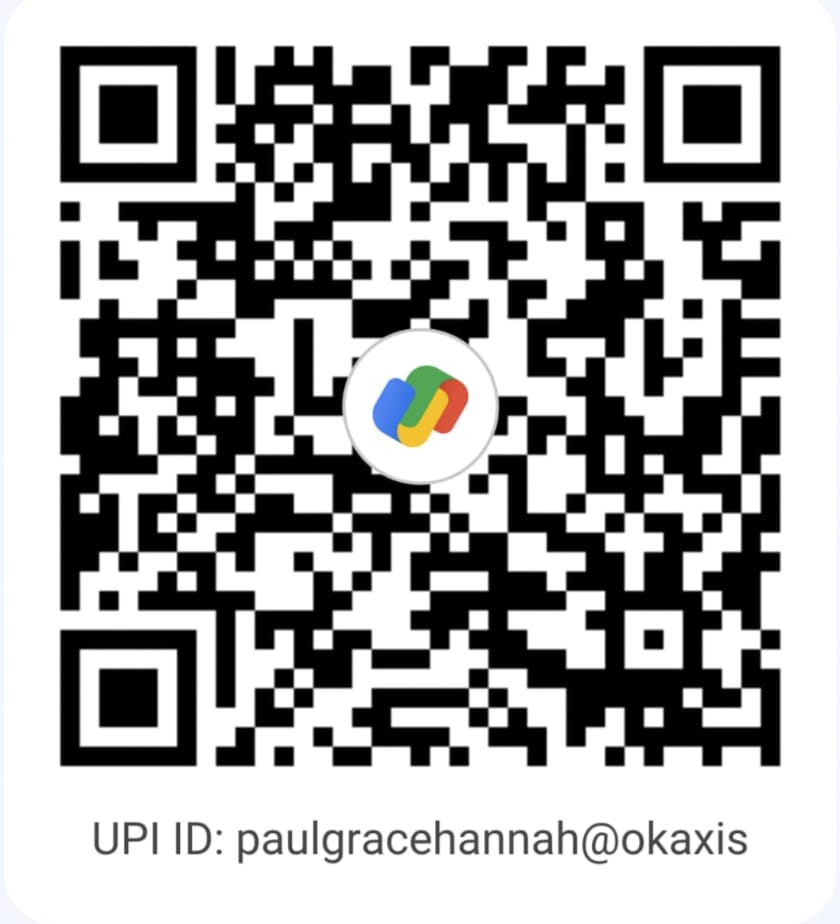
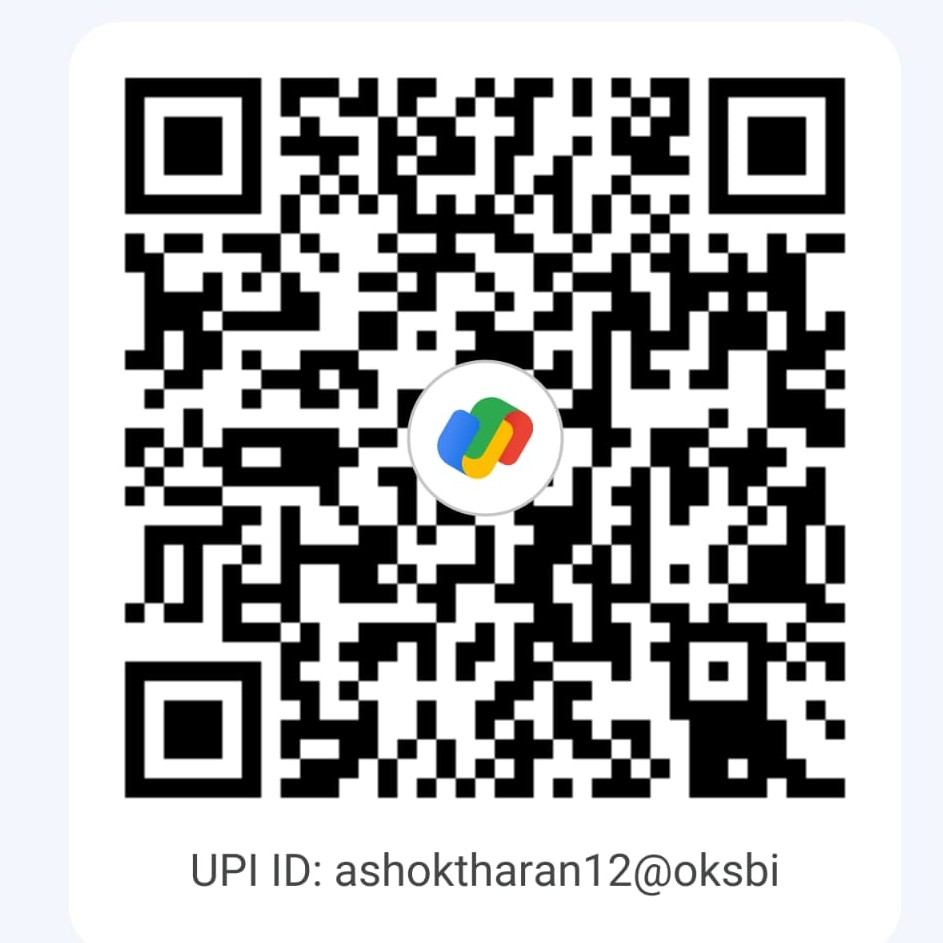
final changes

diff --git a/backend/services/emailService.js b/backend/services/emailService.js
@@ -66,7 +66,7 @@ const tableValue = `padding:5px 0;color:#e2e8f0;font-size:13px;font-weight:600;`
 
 // ─── WhatsApp CTA Block (shared) ─────────────────────────────────────────────
 // Replace WHATSAPP_LINK with your actual WhatsApp group/channel invite URL
-const WHATSAPP_LINK = 'https://chat.whatsapp.com/YOUR_INVITE_CODE_HERE';
+const WHATSAPP_LINK = 'https://chat.whatsapp.com/I7iRsI9Pma89sPPVOzYC8n?mode=gi_t';
 
 const whatsappBlock = `
   <div style="text-align:center;margin:24px 0;">
@@ -155,7 +155,7 @@ function buildHeader(headerGradient, subtextColor, badgeHtml = '') {
     <div style="background:${headerGradient};padding:40px 32px;text-align:center;">
       <!-- College name — NEW addition above workshop title -->
       <p style="margin:0 0 2px;color:rgba(255,255,255,0.55);font-size:10px;letter-spacing:2px;text-transform:uppercase;font-weight:500;">Chennai Institute of Technology</p>
-      <p style="margin:0 0 10px;color:${subtextColor};font-size:11px;letter-spacing:3px;font-weight:600;">IOT CENTERS OF EXCELLENCE</p>
+      <p style="margin:0 0 10px;color:${subtextColor};font-size:11px;letter-spacing:3px;font-weight:600;">IOT CENTER OF EXCELLENCE</p>
       <h1 style="margin:0 0 6px;color:#fff;font-size:26px;font-weight:900;letter-spacing:2px;">STM32 MASTERING</h1>
       <h2 style="margin:0 0 12px;color:#fff;font-size:20px;font-weight:700;letter-spacing:1px;">WORKSHOP</h2>
       ${badgeHtml}

diff --git a/client/src/components/RegistrationSection.jsx b/client/src/components/RegistrationSection.jsx
@@ -12,7 +12,7 @@ import axios from 'axios';
 const API = process.env.REACT_APP_API_URL || 'http://localhost:5000';
 
 /* ─── UPI Configuration ──────────────────────────────────────── */
-const UPI_ID_GPAY    = 'paulgracehannah@okaxis';
+const UPI_ID_GPAY    = 'ashoktharan12@oksbi';
 const UPI_ID_PHONEPE = '9840837564@ybl';
 
 /* ─── File constraints ──────────────────────────────────────── */
